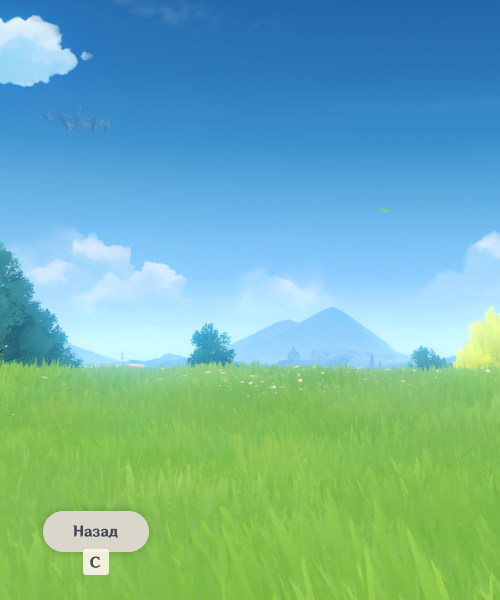
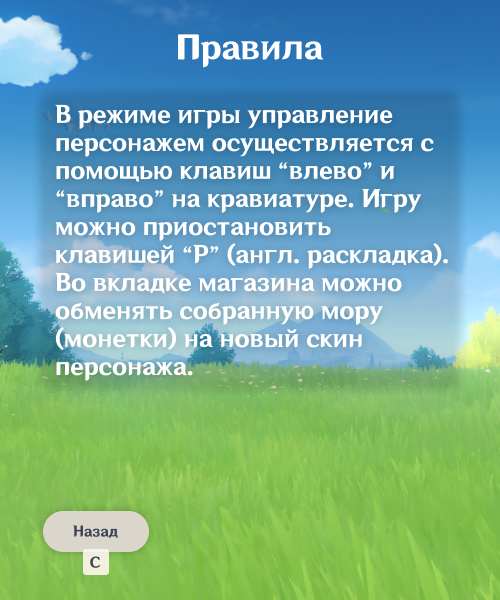
добавленны рекорды по сложности и высоте, исправлена страница правил

diff --git a/helpers/functions.py b/helpers/functions.py
@@ -36,12 +36,16 @@ def mora_from_db():
     return mora[0]
 
 
-def mora_in_db(count):
-    if count < 0 and mora_from_db() + count < 0:
+def end_in_db(count_mora, record, difficulty):
+    if count_mora < 0 and mora_from_db() + count_mora < 0:
         return
     con = sqlite3.connect("jump.db")
     cur = con.cursor()
-    cur.execute(f"UPDATE mora SET count = count + {count}")
+    cur.execute(f"UPDATE mora SET count = count + {count_mora}")
+    cur.execute(f"UPDATE records SET last_rec = {record}")
+    cur.execute(f"UPDATE records SET last_dif = {difficulty}")
+    cur.execute(f"UPDATE records SET max_rec = {record} WHERE max_rec < {record}")
+    cur.execute(f"UPDATE records SET max_dif = {difficulty} WHERE max_dif < {difficulty}")
     con.commit()
     con.close()
 
@@ -88,6 +92,25 @@ def change_skin(number):
     cur.execute(f"UPDATE skin SET name = (SELECT name FROM slimes WHERE id = {number})")
     con.commit()
     con.close()
+
+
+def mora_in_db(count_mora):
+    if count_mora < 0 and mora_from_db() + count_mora < 0:
+        return
+    con = sqlite3.connect("jump.db")
+    cur = con.cursor()
+    cur.execute(f"UPDATE mora SET count = count + {count_mora}")
+    con.commit()
+    con.close()
+
+
+def get_records():
+    con = sqlite3.connect("jump.db")
+    cur = con.cursor()
+    list1 = cur.execute("SELECT * FROM records").fetchall()
+    con.commit()
+    con.close()
+    return list1
 
 
 # def do_it_clean():

diff --git a/screens/record_screen.py b/screens/record_screen.py
@@ -1,0 +1,31 @@
+from screens.play_screen import *
+from helpers.const import *
+from helpers.terminate import *
+
+
+def record_screen():
+    while True:
+        image = pygame.image.load('data\\screens_foto\\record.jpg')
+        fon = pygame.transform.scale(image, (WIDTH, HEIGHT))
+        i = True
+        if i:
+            rec_dif = get_records()[0]
+            last_rec = myfont.render(f'Предыдущая высота: {round(rec_dif[1] / HEIGHT, 2)}', False, (254, 246, 238))
+            last_dif = myfont.render(f'Предыдущая сложность: {rec_dif[3]}', False, (254, 246, 238))
+            max_rec = myfont.render(f'Рекордная высота: {round(rec_dif[2] / HEIGHT, 2)}', False, (254, 246, 238))
+            max_dif = myfont.render(f'Рекордная сложность: {rec_dif[4]}', False, (254, 246, 238))
+            i = False
+        for event in pygame.event.get():
+            if event.type == pygame.QUIT:
+                terminate()
+            elif event.type == pygame.KEYDOWN:
+                if event.key == pygame.K_c:
+                    return
+                if event.key == pygame.K_x:
+                    terminate()
+        screen.blit(fon, (0, 0))
+        screen.blit(last_rec, (55, 115))
+        screen.blit(last_dif, (55, 145))
+        screen.blit(max_rec, (55, 175))
+        screen.blit(max_dif, (55, 205))
+        pygame.display.flip()

diff --git a/screens/end_screen.py b/screens/end_screen.py
@@ -4,20 +4,21 @@ from screens.play_screen import *
 import os
 
 
-def end_screen(count_mora):
+def end_screen(count_mora, record, difficulty):
     while True:
         image = pygame.image.load('data\\screens_foto\\end.jpg')
         fon = pygame.transform.scale(image, (WIDTH, HEIGHT))
         screen.blit(fon, (0, 0))
         for event in pygame.event.get():
             if event.type == pygame.QUIT:
-                mora_in_db(count_mora)
+                end_in_db(count_mora, record, difficulty)
                 terminate()
             elif event.type == pygame.KEYDOWN:
-                mora_in_db(count_mora)
                 if event.key == pygame.K_n:
+                    end_in_db(count_mora, record, difficulty)
                     return
                 if event.key == pygame.K_x:
+                    end_in_db(count_mora, record, difficulty)
                     terminate()
         screen.blit(fon, (0, 0))
         pygame.display.flip()

diff --git a/screens/play_screen.py b/screens/play_screen.py
@@ -70,7 +70,7 @@ def play_screen():
         fl -= 1
         for i in pygame.event.get():
             if i.type == pygame.QUIT:
-                mora_in_db(count_mora)
+                end_in_db(count_mora, record, difficulty)
                 sys.exit()
             elif i.type == pygame.KEYDOWN:
                 if i.key == pygame.K_p:
@@ -171,7 +171,8 @@ def play_screen():
                 del moving_platforms[indx]
 
         if y > 100:
-            end_screen(count_mora)
+            print(count_mora, record, difficulty)
+            end_screen(count_mora, record, difficulty)
             return
         hero = draw_hero(x + x_screen_shift, y + y_screen_shift, screen, get_slime_name())
         screen.blit(textsurface, (412, 0))

diff --git a/start window.py b/start window.py
@@ -1,6 +1,9 @@
+import pygame
+
 from screens.shop_screen import *
 from screens.rules_screen import *
 from screens.play_screen import *
+from screens.record_screen import *
 import os
 
 PTH = os.getcwd()
@@ -20,6 +23,8 @@ def start_screen():
                     shop_screen()
                 elif event.key == pygame.K_a:
                     play_screen()
+                elif event.key == pygame.K_r:
+                    record_screen()
         count_mora = mora_from_db()
         mora_count = myfont.render(f'{count_mora}', False, (254, 246, 238))
         image = pygame.image.load('data\\screens_foto\\start.jpg')
